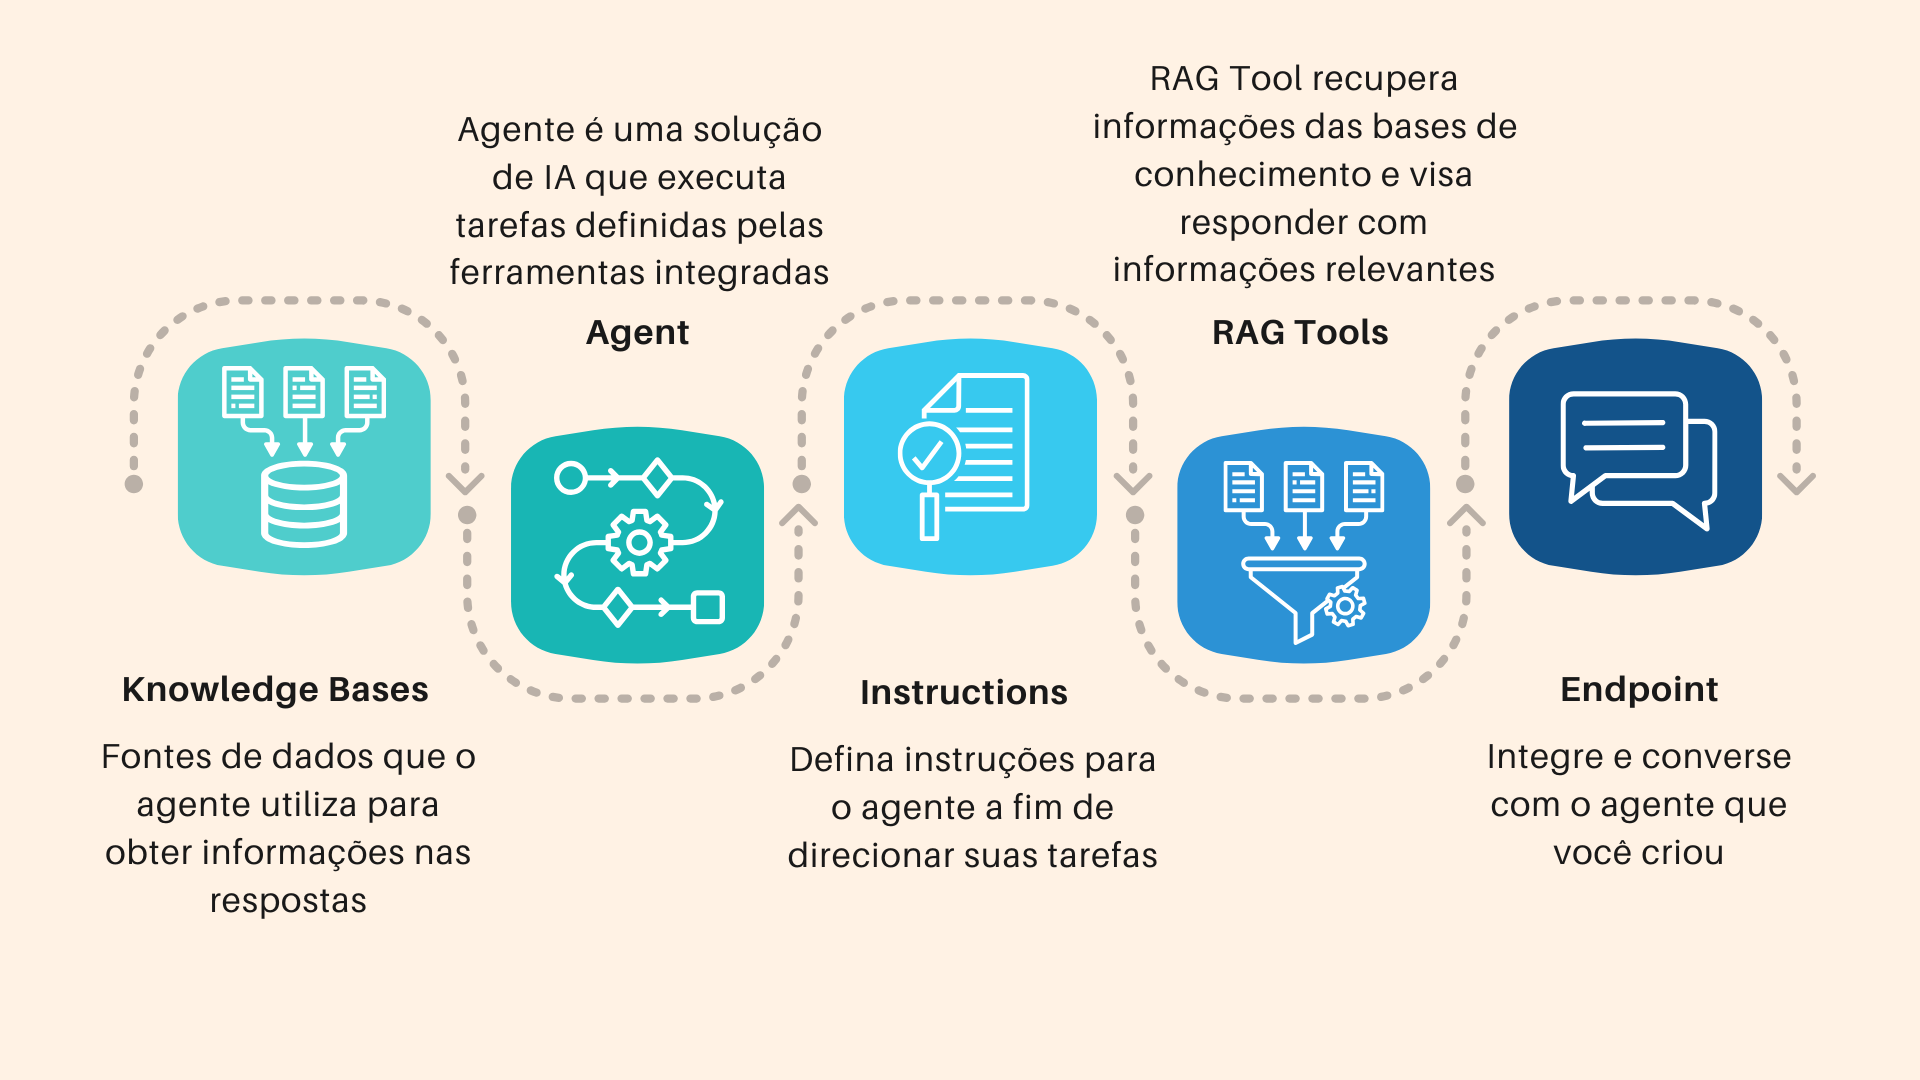
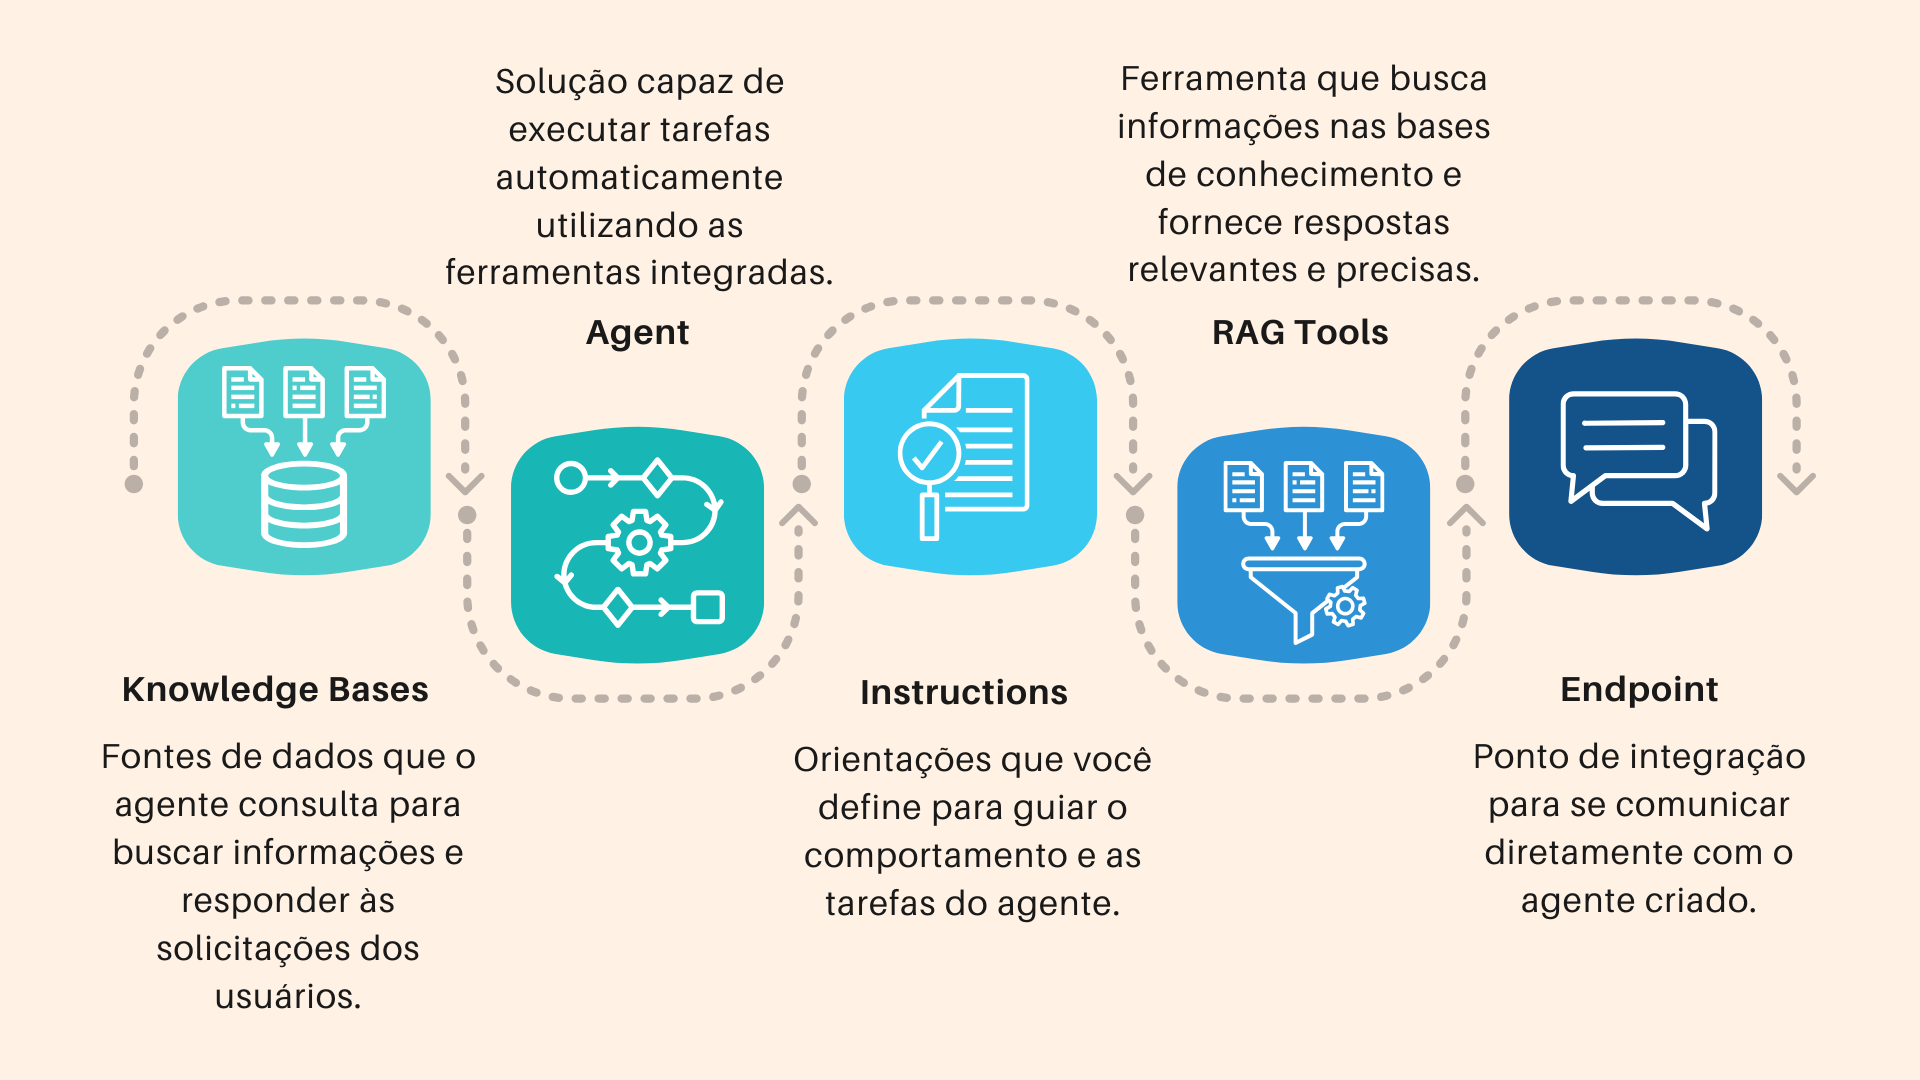
Update intro with objectives and image
Added a detailed objectives section to clarify the use of OCI Generative AI Agent with RAG, Object Storage, and MySQL HeatWave. Updated the illustrative image to reflect the new content and improved explanation of knowledge bases.

diff --git a/0-Introducao/0-intro.md b/0-Introducao/0-intro.md
@@ -30,15 +30,18 @@ Dependendo do caso de uso, você pode adicionar a cada agente as seguintes ferra
 
 Para mais informações sobre o serviço acesse a documentação:[Generative AI Agents](https://docs.oracle.com/en-us/iaas/Content/generative-ai-agents/home.htm)
 
+### **Objetivos**
 
 Neste laboratório, vamos explorar a utilização do OCI Generative AI Agent em conjunto com a ferramenta RAG. A técnica de RAG permite que o **agente recupere informações em suas bases de dados**, fornecendo **contextos relevantes e atualizados** para a reformulação das respostas finais. Essa integração aprimora significativamente a atuação dos chatbots, tornando-os capazes de oferecer **respostas mais precisas, contextualizadas e alinhadas** aos dados reais da organização.
+
+O conjunto de dados acessado pelo agente é denominado **base de conhecimento**. Neste laboratório, utilizaremos o **Object Storage** e o **MySQL HeatWave** como fontes dessa base. O Object Storage permite armazenar documentos, arquivos e conteúdos estruturados ou não estruturados. Já o MySQL HeatWave é o único serviço MySQL totalmente gerenciado que combina funcionalidades de transações, análises, aprendizado de máquina e serviços GenAI. Vamos explorar como utilizar o armazenamento vetorial do MySQL HeatWave para compor a base de conhecimento, potencializando ainda mais a precisão e a riqueza das respostas fornecidas pelos agentes.
 
 
 ![Buckets](images/fluxo-ai-agent.png)
 
-### **Objetivos**
 
-O objetivo desse laborátorio é aprender como podemos construir em poucos passos um agente conversacional utilizando os documentos da sua base de conhecimento utilizando o serviço de OCI Generative AI Agent.
+Vamos utilizar duas bases de conhecimento, o bucket e o banco de dados MySQL HeatWave. 
+
 
 <br>
 
